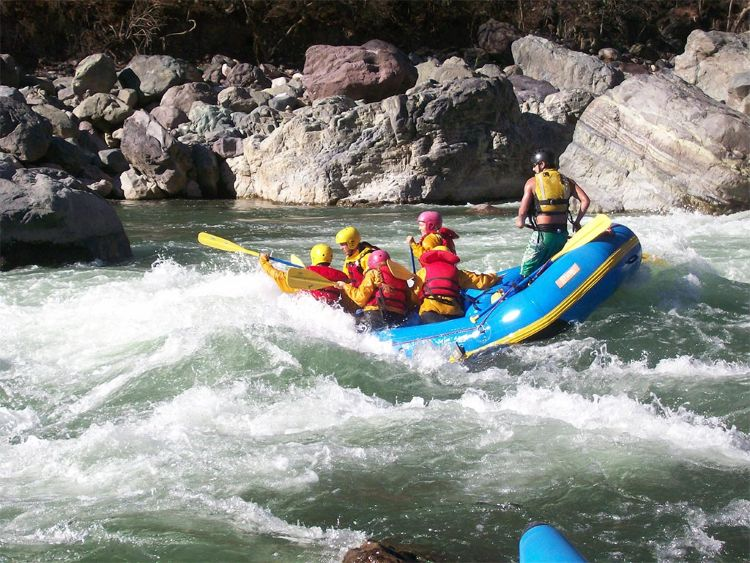
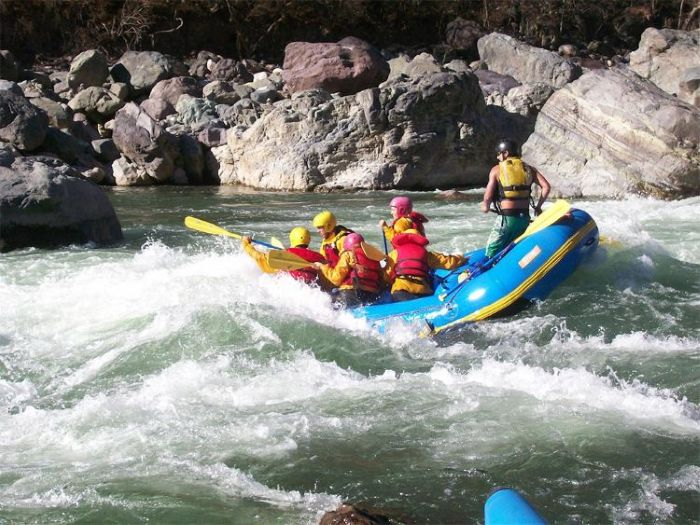
modify about html

diff --git a/week04/header-layout.html b/week04/header-layout.html
@@ -13,7 +13,8 @@
 
 <body>
     <header>
-        <img src="https://brotherblazzard.github.io/images/icons/coloredGears.png" alt="Sample Logo">
+        <img src="https://brotherblazzard.github.io/images/icons/coloredGears.png"
+          alt="Sample Logo">
         <div id="logo">Wasatch Accusystems</div>
         <nav>
             <ul class="navigation">
@@ -28,38 +29,47 @@
         <h1>Header and Nav Layouts</h1>
         <section>
             <h2>&lt;header&gt;: CSS Grid</h2>
-            <p>This header is an example of a CSS Grid layout. It uses the <code>display: grid;</code> property to
+            <p>This header is an example of a CSS Grid layout. It uses the
+                <code>display: grid;</code> property to
                 create a grid structure.</p>
-            <p>The header has three children elements: <code>&lt;img&gt;</code>, <code>&lt;div&gt;</code>, and
+            <p>The header has three children elements: <code>&lt;img&gt;</code>,
+                <code>&lt;div&gt;</code>, and
                 <code>&lt;nav&gt;</code>
             </p>
-            <p>These elements are grid items since their parent is a grid container and so these elements participate in
+            <p>These elements are grid items since their parent is a grid container and so these
+                elements participate in
                 the grid layout.</p>
             <p>The header uses the following CSS declarations to create the grid layout:
             <pre><code>display: grid;
  grid-template-columns: 120px 1fr 1fr;
  align-items: center;</code></pre>
             </p>
-            <p>As a result, the header is divided into three areas: a logo area, a title area, and a navigation area
+            <p>As a result, the header is divided into three areas: a logo area, a title area, and a
+                navigation area
                 that are side by side.</p>
 
             <ul>
                 <li><code>display</code> makes the header a grid</li>
-                <li><code>grid-template-columns</code> defines that there are three columns, the first one at a fixed
+                <li><code>grid-template-columns</code> defines that there are three columns, the
+                    first one at a fixed
                     size of 120px and the rest sharing equally the rest of the space</li>
-                <li><code>align-items</code> aligns the grid items to the middle of the header (the grid)</li>
+                <li><code>align-items</code> aligns the grid items to the middle of the header (the
+                    grid)</li>
             </ul>
 
         </section>
 
         <section>
             <h2>&lt;nav&gt;: CSS Flexbox</h2>
-            <p>This navigation is an example of a CSS Flexbox layout. It uses the <code>display: flex;</code> property
+            <p>This navigation is an example of a CSS Flexbox layout. It uses the
+                <code>display: flex;</code> property
                 to
                 create a flexible layout.</p>
-            <p>The nav has one child element: <code>&lt;ul&gt;</code> which has to be the Flex container because its
+            <p>The nav has one child element: <code>&lt;ul&gt;</code> which has to be the Flex
+                container because its
                 child elements (the list items) need to work together as flex items.</p>
-            <p>The <code>ul</code> with the class of <code>navigation</code> uses the following CSS declarations to
+            <p>The <code>ul</code> with the class of <code>navigation</code> uses the following CSS
+                declarations to
                 create the flex layout:
             <pre><code>display: flex;
  list-style: none;</code></pre>
@@ -70,7 +80,8 @@
                 <li><code>list-style</code> removes the default list styling</li>
             </ul>
 
-            <p>The <code>li</code> (list items) <code>flex</code> property is used on the list items to control their
+            <p>The <code>li</code> (list items) <code>flex</code> property is used on the list items
+                to control their
                 size and how they grow or shrink within the nav.</p>
             <pre><code>flex: 1 1 auto;</code></pre>
         </section>

diff --git a/wwr/about.html b/wwr/about.html
@@ -43,30 +43,57 @@
         </div>
         <section>
             <h2>History</h2>
-            <p>
-                Rapid Rush Adventures was founded with a simple dream: to bring people closer to
-                nature through
-                exciting river adventures. Starting with a small team of passionate rafting
-                enthusiasts, the company
-                has grown into a trusted destination for unforgettable white water experiences.
-                Today, we continue
-                to combine adventure, safety, and fun to create lasting memories on every trip.
-            </p>
+            <div class="history">
+                <p>
+                    Rapid Rush Adventures was founded with a simple dream: to bring people closer to
+                    nature through
+                    exciting river adventures. Starting with a small team of passionate rafting
+                    enthusiasts, the company
+                    has grown into a trusted
+                </p>
+
+                <img src="images/history.jpg" alt="White water rafting">
+
+                <p class="history">
+                    destination for unforgettable white water experiences.
+                    Today, we continue
+                    to combine adventure, safety, and fun to create lasting memories on every trip.
+                </p>
+
+            </div>
         </section>
         <section>
             <h2>Adventure Awaits You!</h2>
+            <figure class="image-row">
+                <img src="images/rafter.jpg" alt="Rafters" width="100">
+                <figcaption> Rapid Rush Expedition </figcaption>
+
+                <img src="images/history.jpg" alt="Rafting Team" width="100">
+                <figcaption> Whitewater Fury Ride </figcaption>
+
+                <img src="images/Jesus-my-lord2.jpg" alt="The Saviour" width="100">
+                <figcaption> Wave Riders Challenge </figcaption>
+
+                <img src="images/hero-image.jpg" alt="Our Heroes" width="100">
+                <figcaption> River Wild Escape </figcaption>
+
+                <img src="images/smiling-rafter.jpg" alt="Working with Joy" width="100">
+                <figcaption> Adrenaline Rapids Run </figcaption>
+            </figure>
         </section>
     </main>
     <footer>
-        <p>&copy; 2026, Rapid Rush Adventures, Collins Osim </p>
-        <nav class="socialmedia">
-            <a href="https://facebook.com"><img src="images/facebook2.jpg" width="100"
-                  alt="Facebook Icon"></a>
-            <a href="https://www.youtube.com"><img src="images/youtube.jpg" width="100"
-                  alt="YouTube Icon"></a>
-            <a href="https://linkedin.com"><img src="images/linkedin.jpg" width="100"
-                  alt="Linkedin Icon "></a>
-        </nav>
+        <div>
+            <p>&copy; 2026, Rapid Rush Adventures, Collins Osim </p>
+            <nav class="socialmedia">
+                <a href="https://facebook.com"><img src="images/facebook2.jpg" width="50"
+                      alt="Facebook Icon"></a>
+                <a href="https://www.youtube.com"><img src="images/youtube.jpg" width="50"
+                      alt="YouTube Icon"></a>
+                <a href="https://linkedin.com"><img src="images/linkedin.jpg" width="50"
+                      alt="Linkedin Icon "></a>
+            </nav>
+        </div>
     </footer>
 </body>
 

diff --git a/wwr/styles/rafting.css b/wwr/styles/rafting.css
@@ -32,6 +32,11 @@ footer {
     margin: 0 auto;
 }
 
+header img {
+    width: 100px;
+    height: 0 auto;
+}
+
 h1,
 h2 {
     font-family: var(--heading-font);
@@ -45,6 +50,7 @@ article {
     margin: 16px;
     padding: 8px;
     color: black;
+
 }
 
 .socialmedia a {
@@ -66,6 +72,7 @@ div img {
     border: 3px solid black;
     border-radius: 100px;
     box-shadow: 0 0 10px rgb(47, 199, 27);
+
 }
 
 h1 {
@@ -80,7 +87,7 @@ h1 {
 }
 
 h2 {
-    text-align: left;
+    text-align: center;
 }
 
 .hero article {
@@ -99,4 +106,89 @@ h2 {
     width: 125px;
     margin: auto;
     box-shadow: 5px 5px 10px #738319;
+}
+
+header {
+    display: grid;
+    grid-template-columns: 120px 1fr 1fr;
+    align-items: center;
+}
+
+nav {
+    display: flex;
+    text-align: right:
+}
+
+nav ul {
+    display: flex;
+    list-style: none;
+    width: 300px;
+    margin: 0;
+    justify-content: space-around;
+    gap: 10px;
+    padding: 0;
+    border: 2px solid rgb(0 0 0 / 5%);
+}
+
+.history {
+    display: grid;
+    grid-template-columns: 1fr 2fr 1fr;
+    align-items: center;
+    gap: 1px;
+    padding: 0;
+}
+
+.history h2 {
+    display: grid;
+    text-align: center;
+}
+
+.history-text-left {
+    grid-column: 1;
+}
+
+.history-img {
+    grid-column: 2;
+}
+
+.history-text-right {
+    grid-column: 3;
+}
+
+.image-row {
+    display: flex;
+    justify-content: space-around;
+    flex-direction: row;
+    gap: 5px;
+
+}
+
+.image-row img {
+    width: 18%;
+    height: 100px;
+    padding: 5px;
+    object-fit: cover;
+}
+
+.image-row figcaption {
+    margin-top: 0.5rem;
+    text-align: center;
+    font-size: 0.9rem;
+}
+
+footer nav {
+    display: grid;
+    grid-template-columns: repeat(3, 2fr);
+    justify-content: right;
+    background-color: aliceblue;
+}
+
+footer div {
+    display: flex;
+    justify-content: space-between;
+}
+
+.socialmedia img {
+    width: 40%;
+
 }

diff --git a/week04/styles/layout-exercises.css b/week04/styles/layout-exercises.css
@@ -23,18 +23,27 @@ div {
 
 .flex {
     background-color: #aba;
+    display: flex;
+    align-items: center;
+    flex-direction: row;
+    justify-content: center;
     /* write declarations here */
 
 }
 
 .grid {
     background-color: #abb;
+    display: grid;
+    place-items: center;
     /* enter declarations here */
 
 }
 
 .container2 {
     /* write declarations here */
+    display: flex;
+    flex-wrap: wrap;
+    justify-content: space-around;
 
 }
 
@@ -44,11 +53,14 @@ div {
 }
 
 .container3 {
+    display: grid;
+    grid-template-columns: 1fr 2fr 3fr;
     /* write declarations here */
 
 }
 
 .columns-3 {
+    grid-column: 1/4;
     /* write declaration here */
 
 }

diff --git a/week04/styles/flexbox-menu.css b/week04/styles/flexbox-menu.css
@@ -13,8 +13,9 @@ nav ul {
     flex-wrap: wrap;
     max-width: 900px;
     margin: 0 auto;
-    justify-content: space-around;
+    justify-content: center;
     align-items: center;
+    flex-direction: row;
 }
 
 nav a {
